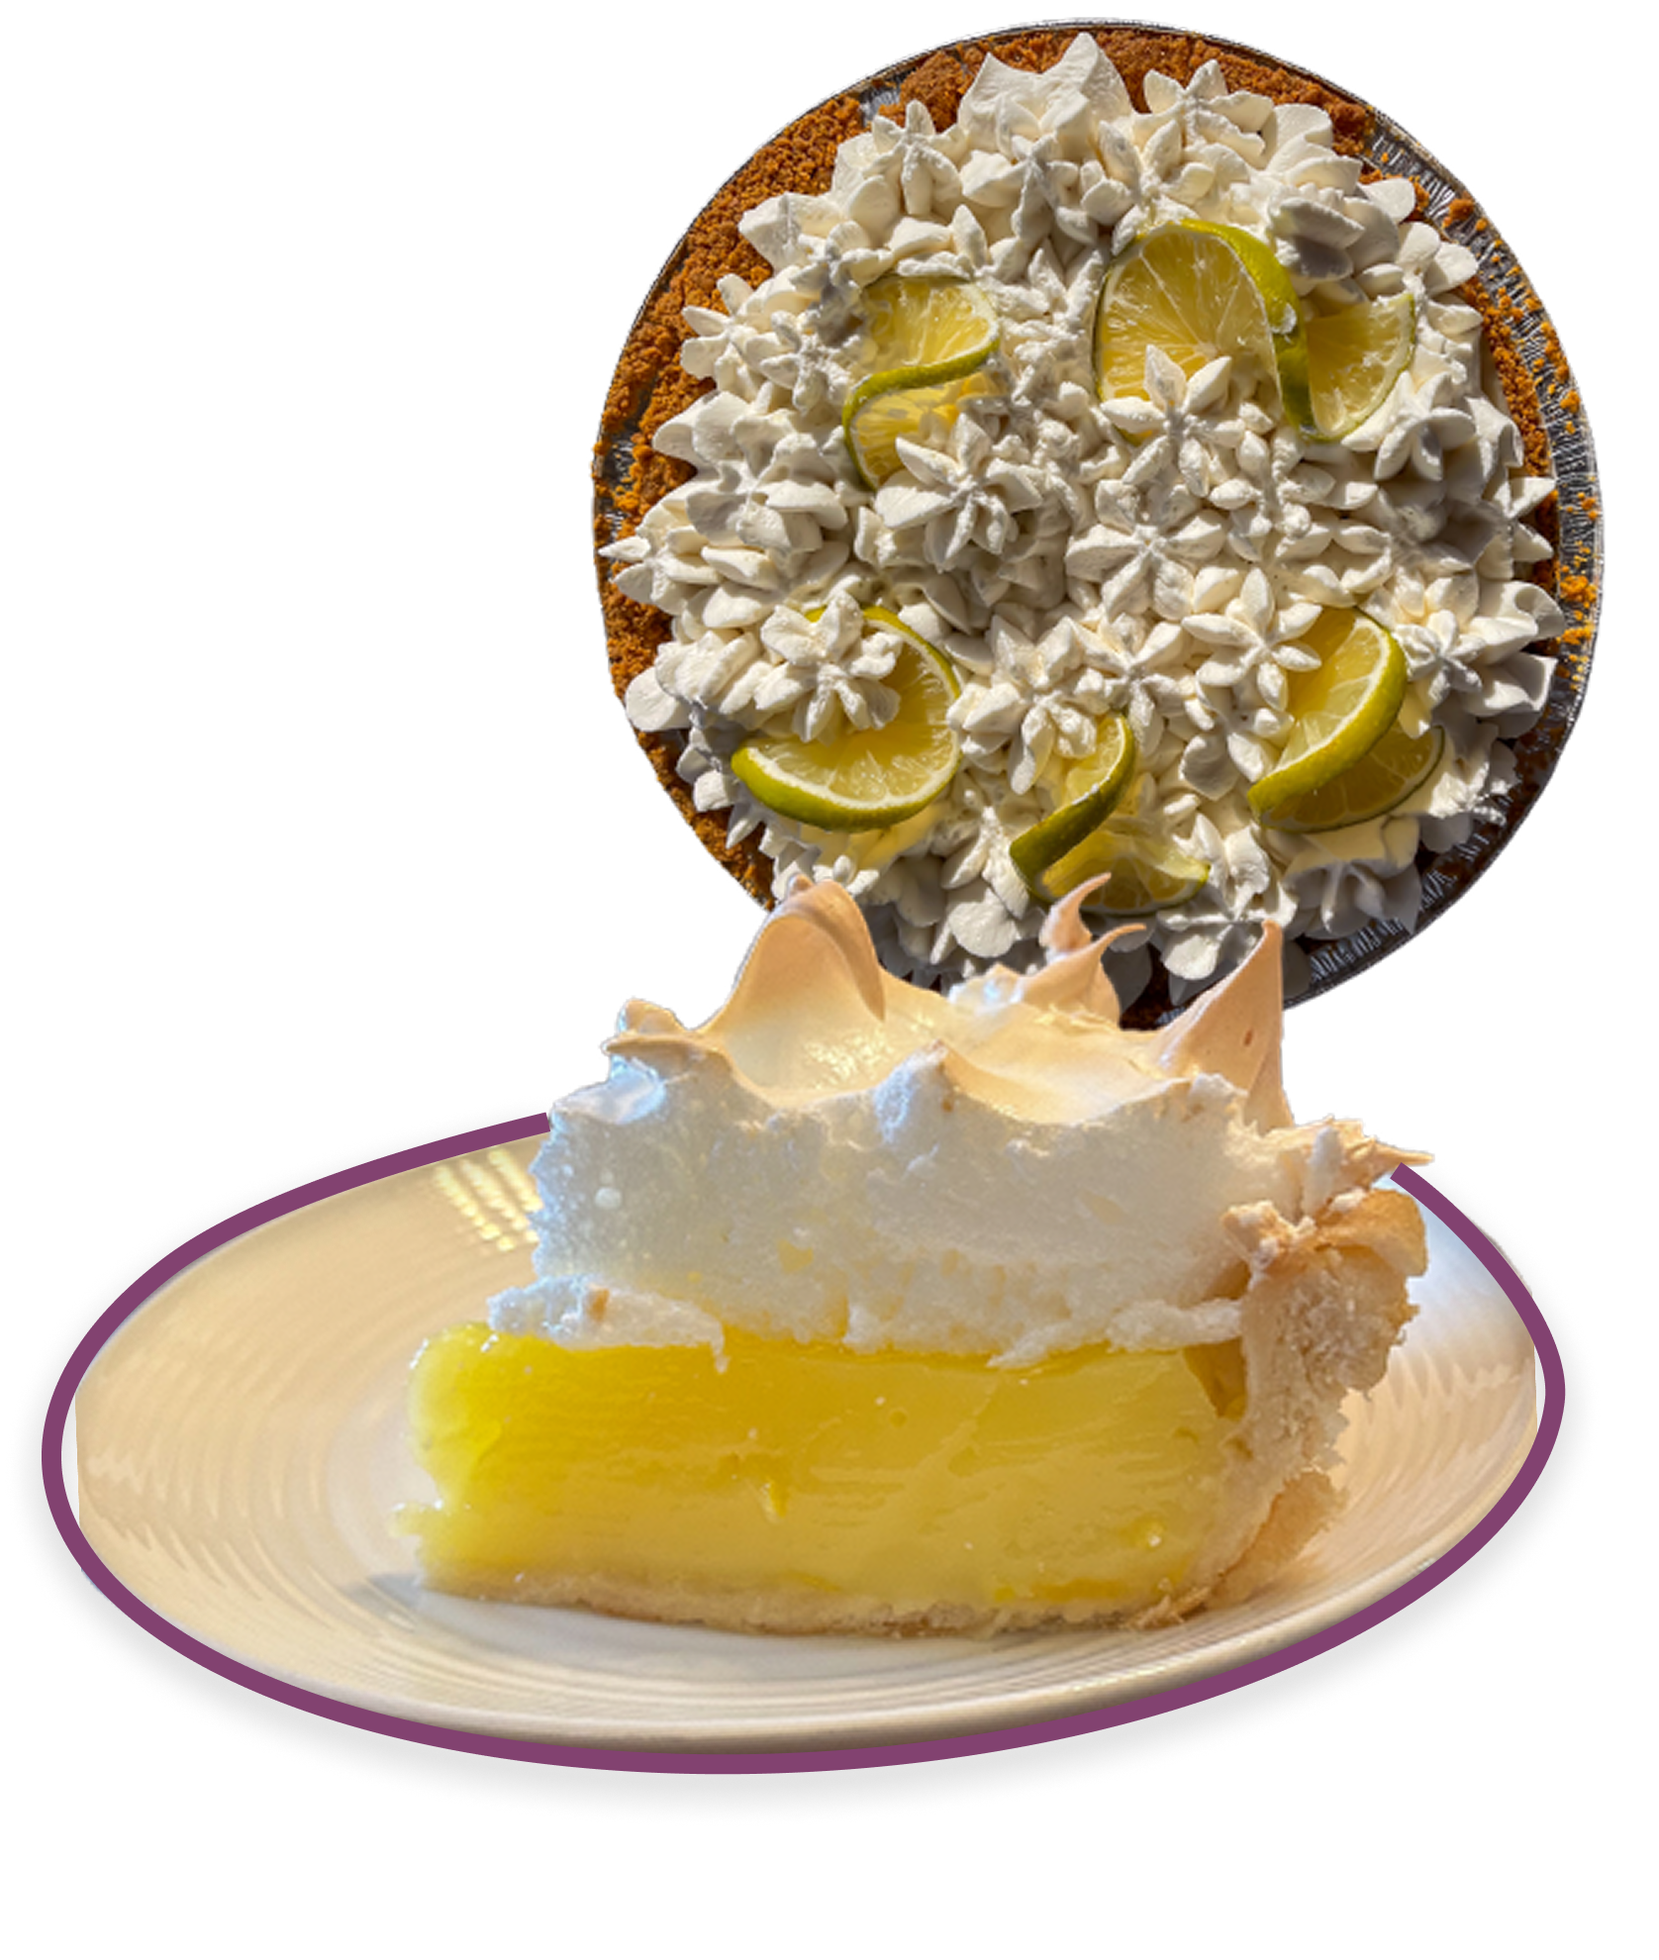
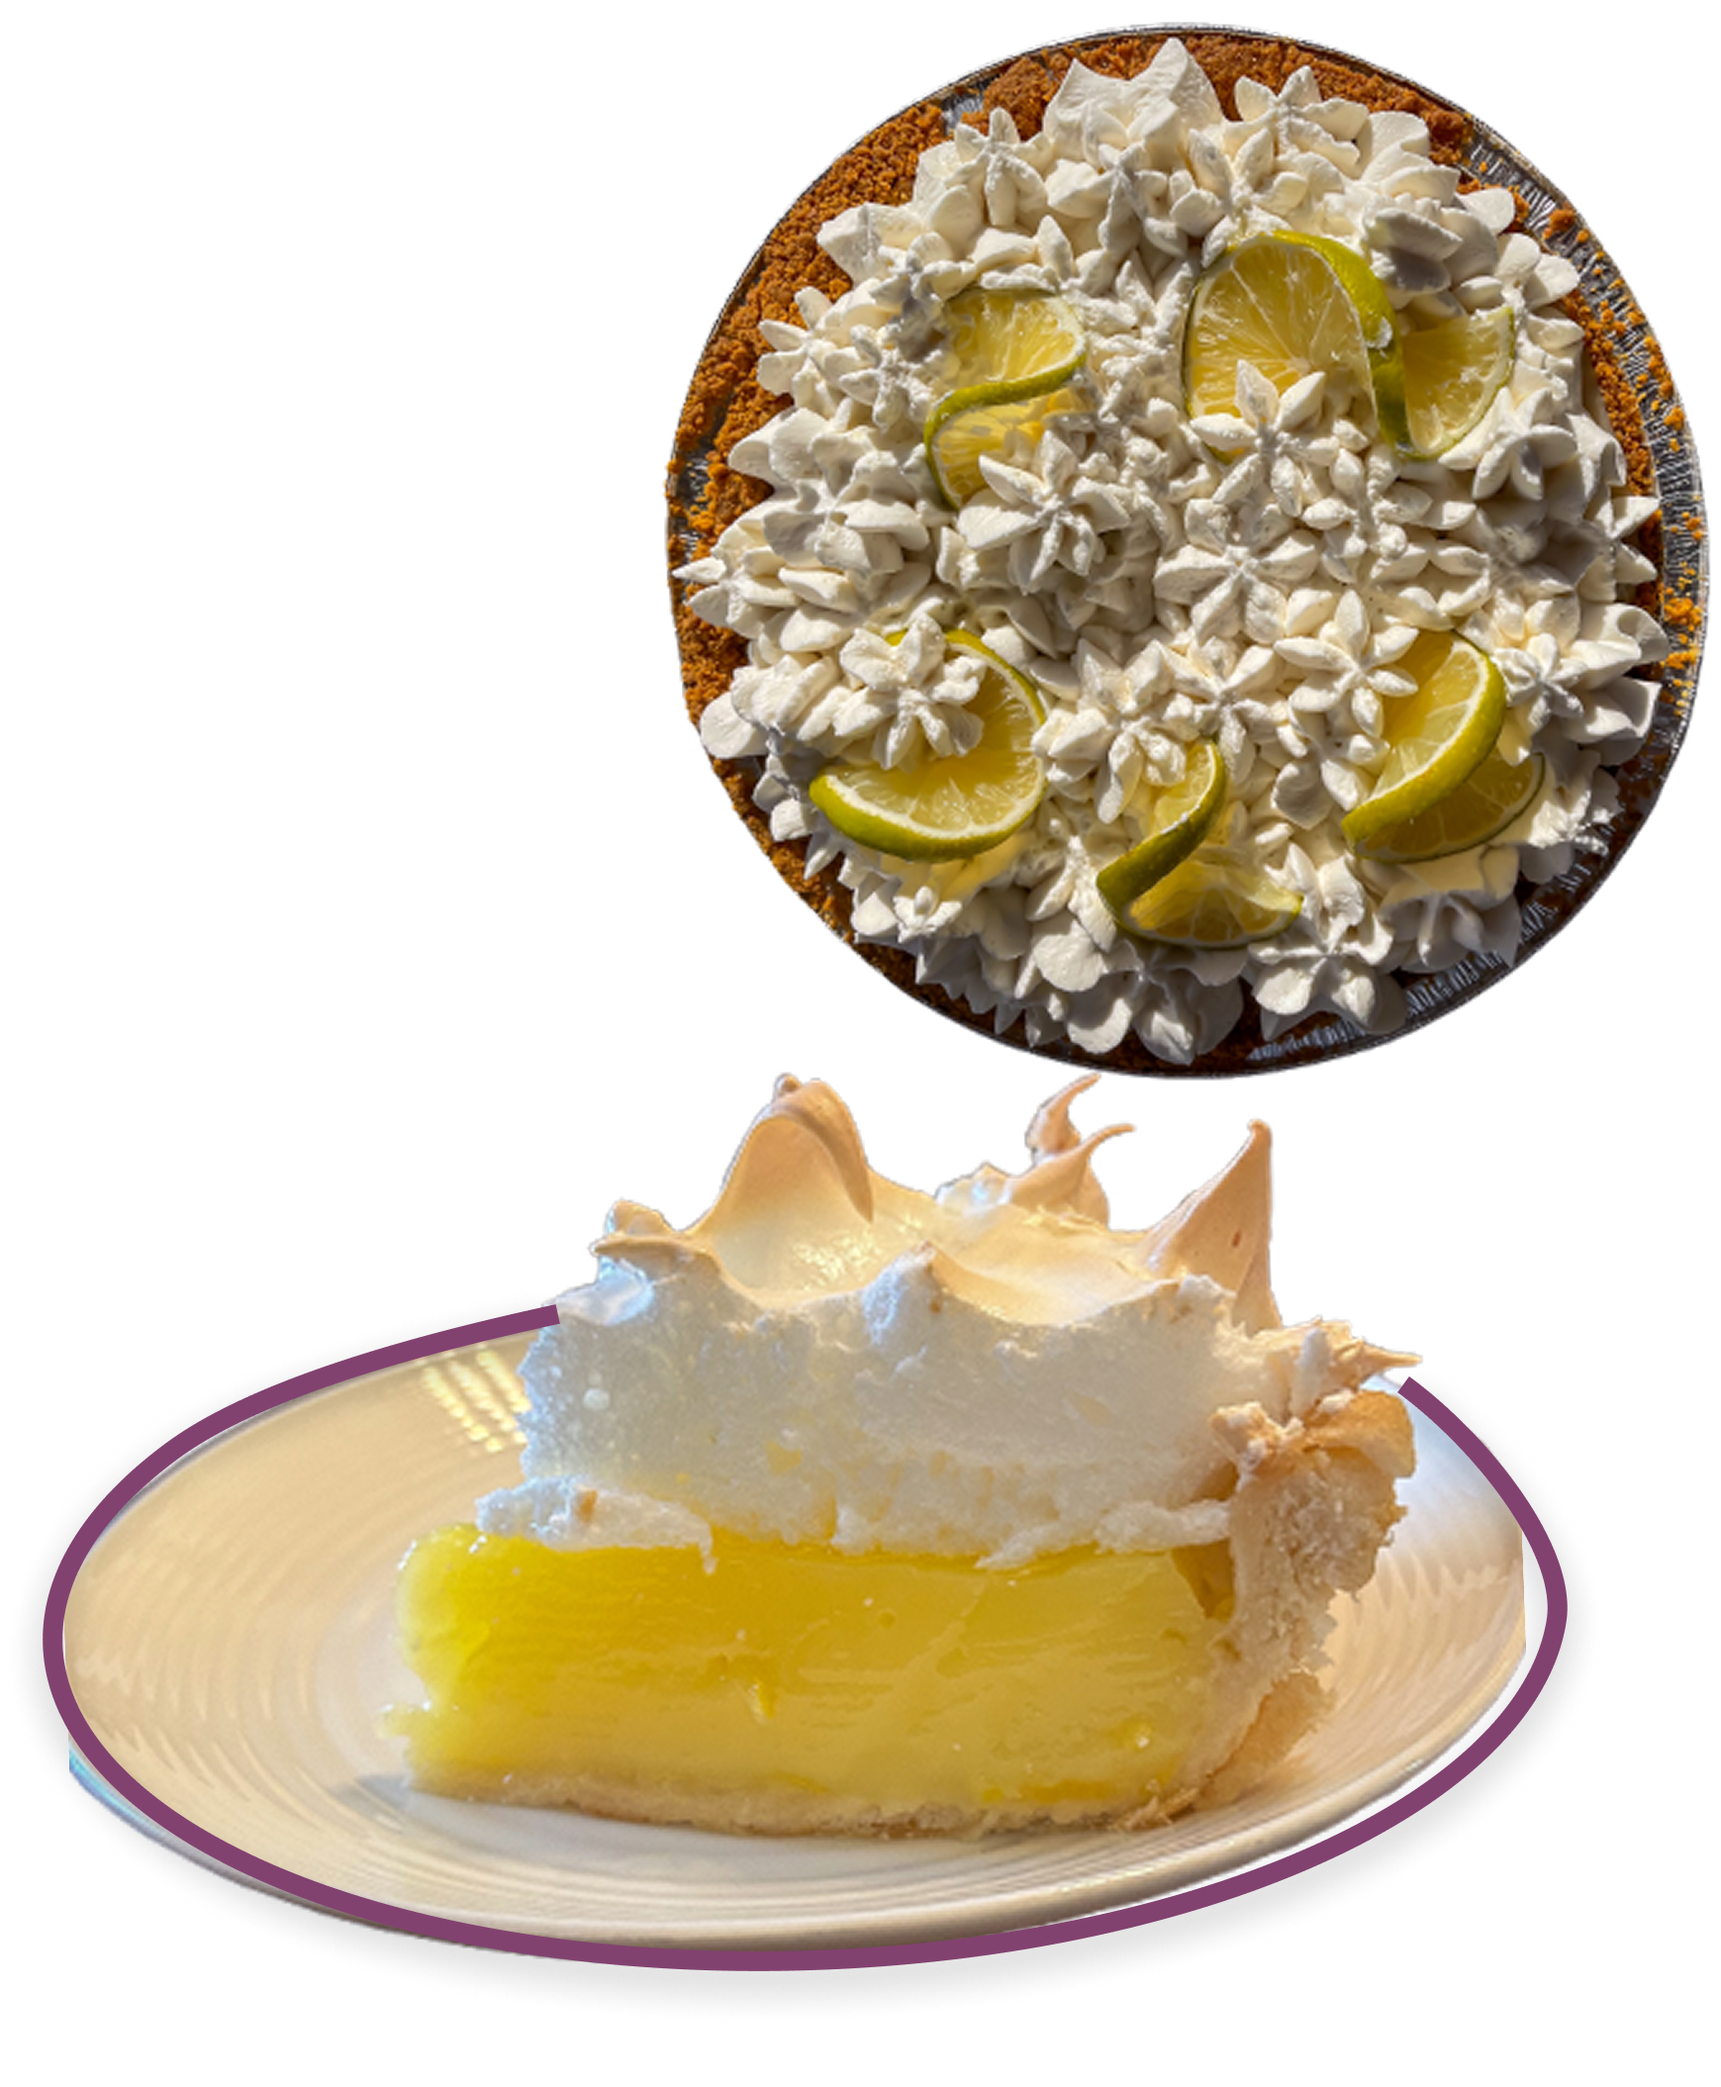
Cherry and font added

diff --git a/css/hero.css b/css/hero.css
@@ -109,18 +109,47 @@
 		transform: translateY(0); /* Final position */
 	}
 }
+@keyframes cherryDropTwo {
+	0% {
+		opacity: 0;
+		transform: translateY(-150px); /* Start cherry from above */
+	}
+	60% {
+		opacity: 1;
+		transform: translateY(10px); /* Slight bounce below final position */
+	}
+	80% {
+		transform: translateY(-5px); /* Slight bounce above final position */
+	}
+	100% {
+		opacity: 1;
+		transform: translateY(0); /* Final position */
+	}
+}
 
 .cherry-icon {
 	position: absolute;
-	left: 46px; /* Adjust as needed */
+	left: 72px; /* Adjust as needed */
 	top: -46px; /* Final landing position */
-	width: 100px;
+	width: 80px;
 	height: auto;
 	animation: cherryDrop 1.5s ease-out forwards; /* Smooth, bouncing drop */
+}
+
+.cherry-icon-two {
+	position: absolute;
+	right: -46px; /* Adjust as needed */
+	top: 46px; /* Final landing position */
+	width: 80px;
+	height: auto;
+	animation: cherryDropTwo 1.5s ease-out forwards; /* Smooth, bouncing drop */
 }
 @media (max-width: 524px) and (min-width: 481px) {
 	.cherry-icon {
 		left: 20px;
+	}
+	.cherry-icon-two {
+		display: none;
 	}
 }
 
@@ -272,7 +301,7 @@
 	width: 18px;
 	margin-right: 6px;
 	filter: invert(18%) sepia(84%) saturate(4115%) hue-rotate(351deg)
-	brightness(85%) contrast(94%);
+		brightness(85%) contrast(94%);
 }
 
 .hero-container .contact-info:hover {
@@ -312,9 +341,13 @@
 		top: -76px;
 		width: 100px;
 	}
+	.cherry-icon-two {
+		display: none;
+	}
 
 	/* Faded cover effect for left image */
-	.left-side-image,.right-side-image {
+	.left-side-image,
+	.right-side-image {
 		display: flex;
 		max-width: 150px;
 		opacity: 0.35;
@@ -343,6 +376,13 @@
 	}
 	.hero-title {
 		font-size: 2.2rem;
+	}
+
+	.cherry-icon-two {
+		position: absolute;
+		right: -46px;
+		top: 44px;
+		width: 80px;
 	}
 }
 
@@ -383,6 +423,12 @@
 	.right-side-image img {
 		width: 100%;
 		opacity: 1;
+	}
+	.cherry-icon-two {
+		position: absolute;
+		right: -46px;
+		top: 44px;
+		width: 80px;
 	}
 }
 
@@ -447,8 +493,16 @@
 		font-size: 1.5rem;
 	}
 	.cherry-icon {
-		left: 120px;
-		top: -46px;
+		position: absolute;
+		left: 130px; /* Adjust as needed */
+		top: -46px; /* Final landing position */
+		width: 100px;
+	}
+
+	.cherry-icon-two {
+		position: absolute;
+		right: -56px; /* Adjust as needed */
+		top: 76px; /* Final landing position */
 		width: 100px;
 	}
 	.left-side-image,
@@ -463,62 +517,74 @@
 		right: 3%;
 		max-width: 650px;
 	}
-}
-
-@media (min-width: 1440px) and (max-width: 1879px) {
-	.left-side-image,
-	.right-side-image {
-		display: block;
-		max-width: 450px;
-	}
-	.left-side-image {
-		left: 5%;
-	}
-	.right-side-image {
-		right: 5%;
-	}
-	.hero-header h1 {
-		font-size: 3.2rem;
-	}
-	.hero-title {
-		font-size: 3.6rem;
-	}
-	.cherry-icon {
-		left: 86px;
-		top: -46px;
-	}
-}
-
-@media (min-width: 1444px) and (max-width: 1540px) {
-	.left-side-image {
-		left: 2%;
-	}
-	.right-side-image {
-		right: 2%;
-	}
-}
-
-@media (min-width: 320px) and (max-width: 330px) {
-	.hero-title {
-		font-size: 1.2rem;
-		line-height: 1.2;
+	.hero-container .contact-info {
+		font-size: 28px;
 	}
 
-	.hero-buttons a {
-		font-size: 0.8rem;
-		padding: 8px 12px;
-		width: auto;
-		white-space: nowrap; /* keeps text in one line */
+	@media (min-width: 1440px) and (max-width: 1879px) {
+		.left-side-image,
+		.right-side-image {
+			display: block;
+			max-width: 450px;
+		}
+		.left-side-image {
+			left: 5%;
+		}
+		.right-side-image {
+			right: 5%;
+		}
+		.hero-header h1 {
+			font-size: 3.2rem;
+		}
+		.hero-title {
+			font-size: 3.6rem;
+		}
+		.cherry-icon {
+			left: 86px;
+			top: -46px;
+		}
 	}
 
-	.cherry-icon {
-		width: 60px;
-		left: 12px;
-		top: -40px;
+	@media (min-width: 1444px) and (max-width: 1540px) {
+		.left-side-image {
+			left: 2%;
+		}
+		.right-side-image {
+			right: 2%;
+		}
+		.cherry-icon-two {
+			position: absolute;
+			right: -46px;
+			top: 64px;
+			width: 80px;
+		}
 	}
-}
-@media (max-width: 1020px) {
-	.social-icons-mobile {
-		display: flex;
+
+	@media (min-width: 320px) and (max-width: 330px) {
+		.hero-title {
+			font-size: 1.2rem;
+			line-height: 1.2;
+		}
+
+		.hero-buttons a {
+			font-size: 0.8rem;
+			padding: 8px 12px;
+			width: auto;
+			white-space: nowrap; /* keeps text in one line */
+		}
+
+		.cherry-icon {
+			width: 60px;
+			left: 12px;
+			top: -40px;
+		}
+		.cherry-icon-two {
+			display: none;
+		}
+	}
+	@media (max-width: 1020px) {
+		.social-icons-mobile {
+			display: flex;
+		}
 	}
 }

diff --git a/public/Layout/hero.html b/public/Layout/hero.html
@@ -1,20 +1,32 @@
 <div class="hero-container text-center">
 	<div class="hero-header">
 		<h1 class="hero-title">
-			<img src="./Images/mainImages/cherry.png" alt="Cherry" class="cherry-icon"/>
+			<img
+				src="./Images/mainImages/cherry.png"
+				alt="Cherry"
+				class="cherry-icon"
+			/>
 			<span class="line1">Homemade Pies,</span><br />
 			<span class="line2"
-			><span class="baked">Baked</span> With
+				><span class="baked">Baked</span> With
 				<span class="love">Love</span>,</span
 			><br />
-			<span class="line3">Perfect For Your
-				<span class="family">Family</span> Table!</span	>
+			<span class="line3"
+				>Perfect For Your <span class="family">Family</span> Table!</span
+			>
+			<img
+				src="./Images/mainImages/cherry.png"
+				alt="Cherry"
+				class="cherry-icon-two"
+			/>
 		</h1>
 	</div>
 	<!-- Hero Buttons -->
 	<div class="hero-buttons">
 		<a href="#products" class="btn hero-btn shop-now">Shop Now</a>
-		<a href="./piequiz.html" class="btn hero-btn pie-quiz">Take your Pie Quiz</a>
+		<a href="./piequiz.html" class="btn hero-btn pie-quiz"
+			>Take your Pie Quiz</a
+		>
 	</div>
 
 	<!-- Quote -->
@@ -22,10 +34,20 @@
 
 	<!-- Responsive Social Icons (Mobile Only and Tablet) -->
 	<div class="social-icons-mobile">
-		<a href="https://www.facebook.com/piemama14/" target="_blank" aria-label="Facebook">
-			<i class="fab fa-facebook-f"></i></a>
-		<a href="https://www.instagram.com/mcnamarapieco/?hl=en" target="_blank" aria-label="Instagram">
-			<i class="fab fa-instagram"></i></a>
+		<a
+			href="https://www.facebook.com/piemama14/"
+			target="_blank"
+			aria-label="Facebook"
+		>
+			<i class="fab fa-facebook-f"></i
+		></a>
+		<a
+			href="https://www.instagram.com/mcnamarapieco/?hl=en"
+			target="_blank"
+			aria-label="Instagram"
+		>
+			<i class="fab fa-instagram"></i
+		></a>
 	</div>
 
 	<!-- Contact Information -->
@@ -34,20 +56,32 @@
 			<a href="mailto:mcnamarapieco@gmail.com">mcnamarapieco@gmail.com</a>
 		</p>
 		<p class="phone">
-			<img src="./Images/mainImages/Phone.png" alt="Phone Icon" class="phone-icon"/>
+			<img
+				src="./Images/mainImages/Phone.png"
+				alt="Phone Icon"
+				class="phone-icon"
+			/>
 			<a href="tel:5199192285">519-919-2285</a>
 		</p>
 	</div>
 
 	<!-- Left Side Image -->
 	<div class="left-side-image">
-		<img src="./Images/mainImages/RightSidePic.png" alt="Pie with Crumbs" class="left-pie"/>
+		<img
+			src="./Images/mainImages/RightSidePic.png"
+			alt="Pie with Crumbs"
+			class="left-pie"
+		/>
 	</div>
 
 	<!-- Right Side Content (Images and Contact Info) -->
 	<div class="right-side">
 		<div class="right-side-image">
-			<img src="./Images/mainImages/LeftSidePic.png" alt="Apple Pie with Strawberries" class="right-pie"/>
+			<img
+				src="./Images/mainImages/LeftSidePic.png"
+				alt="Apple Pie with Strawberries"
+				class="right-pie"
+			/>
 		</div>
 	</div>
 </div>
